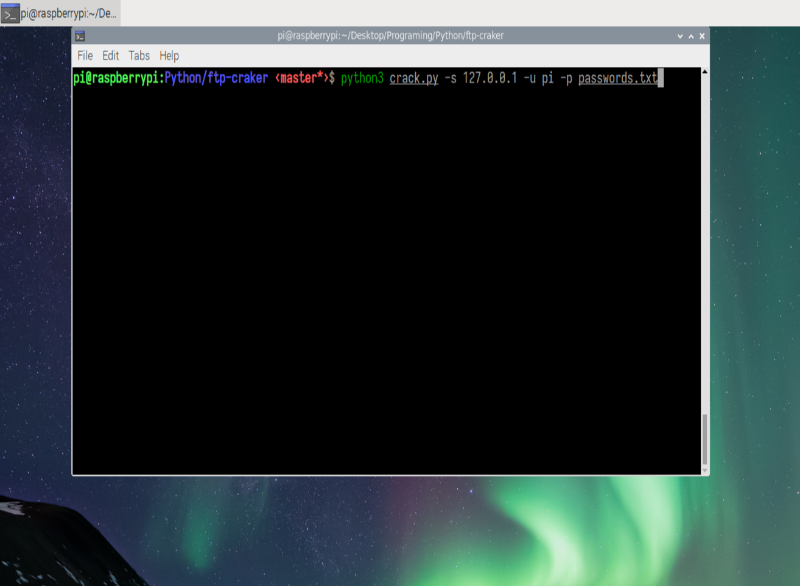
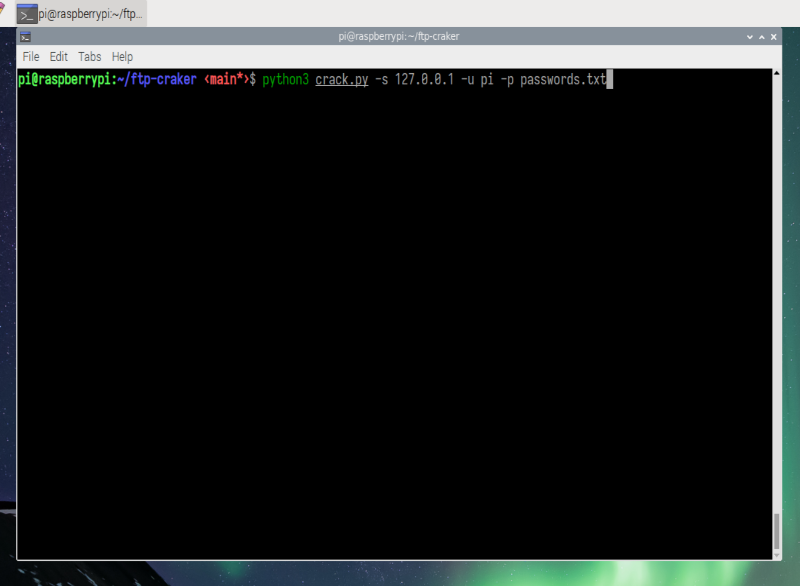
Added more information in README.md and modified images.

diff --git a/README.md b/README.md
@@ -1,10 +1,13 @@
 ## Summary
-	This is simple python FTP password craker. 
+	This is simple python FTP password craker. To crack FTP login using wordlist based brute force attack
 
 <hr>
 
 ## Requriments
-	` pip install ftplib `
+``` 
+pip install ftplib
+pip install -r requirements.txt
+```
 
 <hr>
 
@@ -13,26 +16,30 @@
 ```
 git clone https://github.com/CyberVarun/ftp-craker.git 
 cd ftp-craker
-python3 craker.py 
+python3 craker.py --help 
 ```
+
 ## Usage
+```
+Usage: crack.py [OPTIONS]
+
+  This Simple python FTP cracker to crack FTP login using wordlist based
+  brute force attack.
+
+Options:
+  -s, --server TEXT               Specify Server IP  [required]
+  -u, --user TEXT                 Specify User  [required]
+  -p, --passfile FILENAME         Specify Password File  [required]
+
+  --help                          Show this message and exit.
 
 ```
-usage: crack.py [-h] [-s SERVER] [-u USER] [-p PASSFILE]
 
-optional arguments:
-  -h, --help   show this help message and exit
-  -s SERVER    specify server IP
-  -u USER      specify user
-  -p PASSFILE  specify password file
+![Image](./img/preview1.png)
+![Image](./img/preview2.png)
+![Image](./img/preview3.png)
 
-```
 ## Tested on 
 
-Raspberry Pi OS
-
-## Preview
-![Preview Image](./img/preview1.png)
-![Preview Image](./img/preview2.png)
-![Preview Image](./img/preview3.png)
-![Preview Image](./img/preview4.png)
+Raspberry Pi OS <br>
+Ubuntu (WSL)
